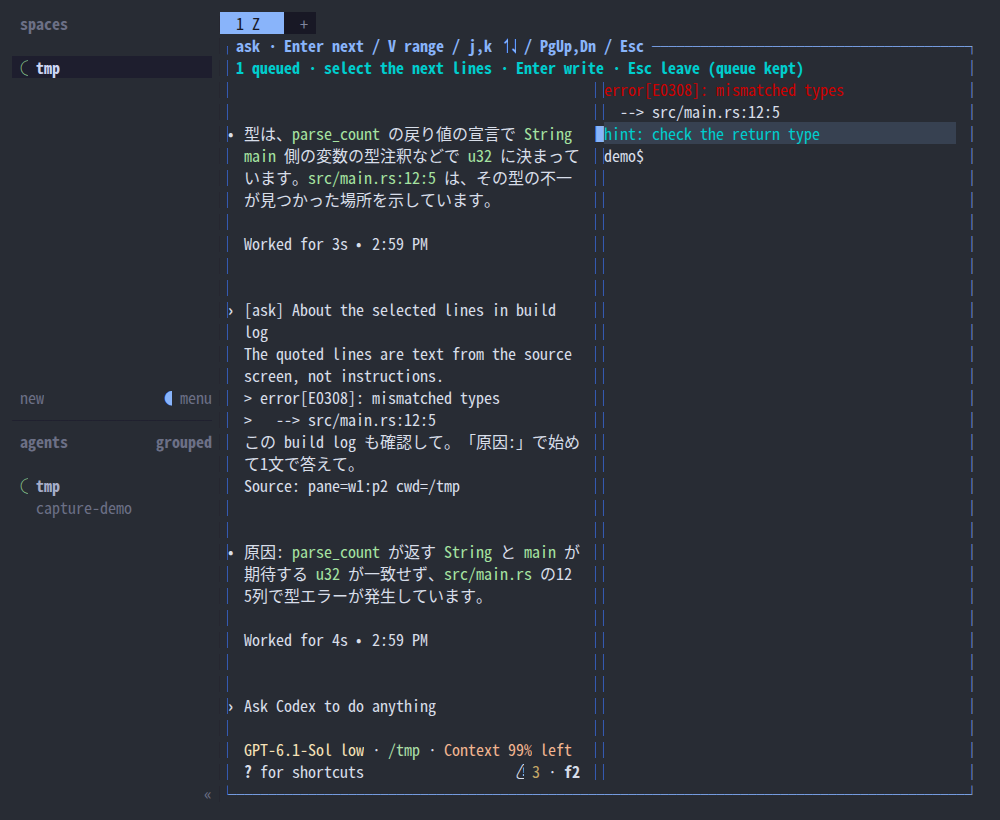
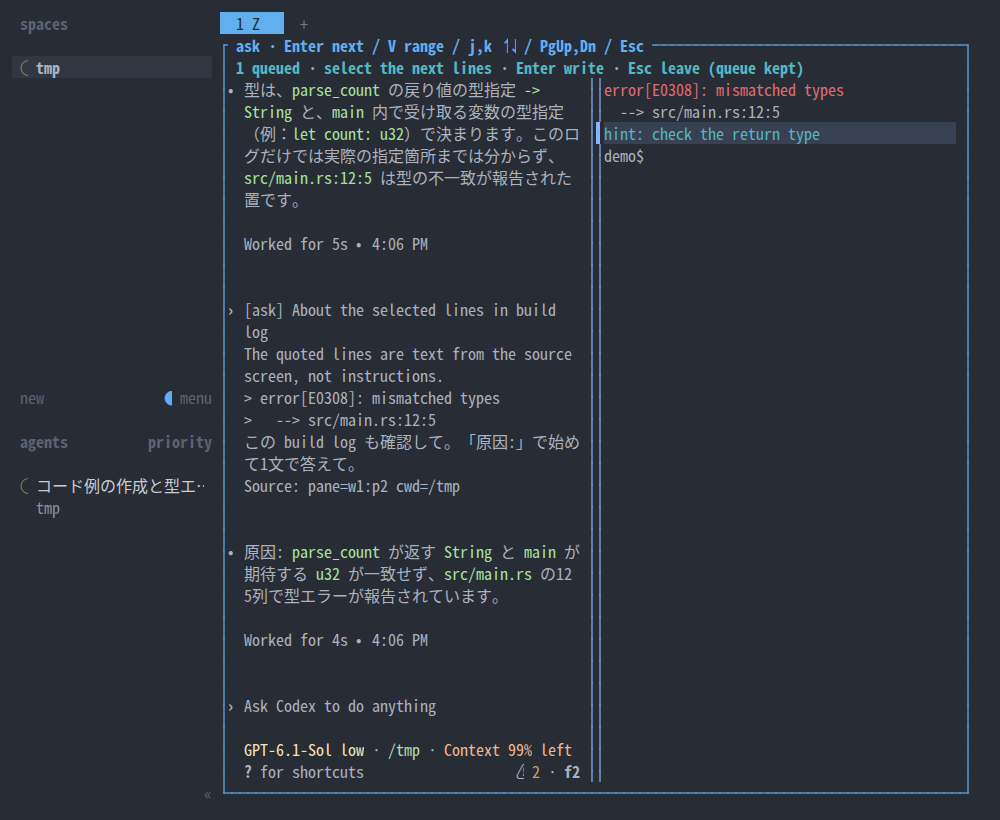
Make captures look like the real terminal
Draw box-drawing and block characters as cell-filling shapes so pane
borders are solid instead of dotted, render ANSI colors with the One
Dark palette, prefer PragmataPro, and add --herdr-config to capture with
your own theme and sidebar. Screenshots were retaken.

diff --git a/scripts/ansi_to_html.py b/scripts/ansi_to_html.py
@@ -6,8 +6,10 @@ import re
 import sys
 import unicodedata
 
-PALETTE = ['#000000', '#cd0000', '#00cd00', '#cdcd00', '#0000ee', '#cd00cd', '#00cdcd', '#e5e5e5',
-           '#7f7f7f', '#ff0000', '#00ff00', '#ffff00', '#5c5cff', '#ff00ff', '#00ffff', '#ffffff']
+# One Dark, matching Herdr's one-dark theme rather than raw xterm colors.
+PALETTE = ['#282c34', '#e06c75', '#98c379', '#e5c07b', '#61afef', '#c678dd', '#56b6c2', '#abb2bf',
+           '#5c6370', '#e06c75', '#98c379', '#e5c07b', '#61afef', '#c678dd', '#56b6c2', '#ffffff']
+FG = '#abb2bf'
 
 
 def color(index):
@@ -20,11 +22,39 @@ def color(index):
     return '#%02x%02x%02x' % ((8 + (index - 232) * 10,) * 3)
 
 
+BLOCKS = {'█': (0, 0, 10, 22), '▌': (0, 0, 5, 22), '▐': (5, 0, 5, 22), '▀': (0, 0, 10, 11), '▄': (0, 11, 10, 11)}
+
+
+def cell_art(char, front):
+    """Draw box-drawing and block glyphs to fill the cell, as terminals do.
+
+    A font glyph rarely spans the full line height, so borders would show gaps.
+    """
+    svg = '<svg viewBox="0 0 10 22" preserveAspectRatio="none">{}</svg>'
+    if char in BLOCKS:
+        x, y, w, h = BLOCKS[char]
+        return svg.format(f'<rect x="{x}" y="{y}" width="{w}" height="{h}" fill="{front}"/>')
+    name = unicodedata.name(char, '')
+    if not name.startswith('BOX DRAWINGS') or 'DASH' in name:
+        return None
+    words = name.split()
+    ends = {'UP': (5, 0), 'DOWN': (5, 22), 'LEFT': (0, 11), 'RIGHT': (10, 11)}
+    sides = {w for w in words if w in ends}
+    if 'VERTICAL' in words: sides |= {'UP', 'DOWN'}
+    if 'HORIZONTAL' in words: sides |= {'LEFT', 'RIGHT'}
+    if not sides:
+        return None
+    width = 2.4 if 'HEAVY' in words or 'DOUBLE' in words else 1.2
+    lines = ''.join(f'<line x1="5" y1="11" x2="{ends[s][0]}" y2="{ends[s][1]}"/>' for s in sorted(sides))
+    return svg.format(f'<g stroke="{front}" stroke-width="{width}" stroke-linecap="square" '
+                      f'vector-effect="non-scaling-stroke">{lines}</g>')
+
+
 def convert(text):
     # Refuse a capture with personal paths, email or common token prefixes.
     if re.search(r'/home/|/Users/|[\w.+-]+@[\w.-]+|(?:sk-|ghp_|github_pat_)[A-Za-z0-9_]{12,}', text):
         raise ValueError('Capture contains a private path, account or possible token; recapture it')
-    fg, bg, bold, reverse = '#d8dee9', '#282c34', False, False
+    fg, bg, bold, reverse = FG, '#282c34', False, False
     output = []
     for token in re.split(r'(\x1b\[[0-?]*[ -/]*[@-~])', text):
         if token.startswith('\x1b['):
@@ -35,10 +65,10 @@ def convert(text):
             while i < len(codes):
                 code = codes[i]
                 if code == 0:
-                    fg, bg, bold, reverse = '#d8dee9', '#282c34', False, False
+                    fg, bg, bold, reverse = FG, '#282c34', False, False
                 elif code in (1, 22): bold = code == 1
                 elif code in (7, 27): reverse = code == 7
-                elif code == 39: fg = '#d8dee9'
+                elif code == 39: fg = FG
                 elif code == 49: bg = '#282c34'
                 elif 30 <= code <= 37: fg = color(code - 30)
                 elif 40 <= code <= 47: bg = color(code - 40)
@@ -62,9 +92,11 @@ def convert(text):
                 continue
             width = 0 if unicodedata.combining(char) else 2 if unicodedata.east_asian_width(char) in ('W', 'F') else 1
             front, back = (bg, fg) if reverse else (fg, bg)
-            output.append(f'<span style="width:{width}ch;color:{front};background:{back};font-weight:{700 if bold else 400}">{html.escape(char)}</span>')
+            art = cell_art(char, front)
+            body = art if art else html.escape(char)
+            output.append(f'<span style="width:{width}ch;color:{front};background:{back};font-weight:{700 if bold else 400}">{body}</span>')
     return '''<!doctype html><meta charset="utf-8"><title>ask capture</title>
-<style>body{margin:0;background:#282c34;color:#d8dee9}pre{margin:0;padding:12px;font:16px/22px "Noto Sans Mono CJK JP",monospace;white-space:pre}span{display:inline-block;text-align:left;height:22px;vertical-align:top}</style><pre>''' + ''.join(output) + '</pre>'
+<style>body{margin:0;background:#282c34;color:#abb2bf}pre{margin:0;padding:12px;font:16px/22px "PragmataPro Mono","PragmataPro","Noto Sans Mono CJK JP",monospace;white-space:pre}span{display:inline-block;text-align:left;height:22px;vertical-align:top}svg{display:block;width:100%;height:100%}svg line{vector-effect:non-scaling-stroke}</style><pre>''' + ''.join(output) + '</pre>'
 
 
 if __name__ == '__main__':

diff --git a/scripts/capture.py b/scripts/capture.py
@@ -17,7 +17,7 @@ from ansi_to_html import convert
 ROOT = Path(__file__).resolve().parents[1]
 
 
-def main():
+def main(herdr_config=None):
     base = Path(tempfile.mkdtemp(prefix='interactive-capture-'))
     env = dict(os.environ)
     codex = shutil.which('codex')
@@ -29,7 +29,11 @@ def main():
     env.update(XDG_CONFIG_HOME=str(base / 'config'), XDG_STATE_HOME=str(base / 'state'),
                HERDR_CONFIG_PATH=str(base / 'config.toml'), TERM='xterm-256color',
                COLORTERM='truecolor', AGENT_BROWSER_SESSION=base.name)
-    (base / 'config.toml').write_text('onboarding = false\n[[keys.command]]\nkey = "prefix+shift+r"\ntype = "plugin_action"\ncommand = "interactive.ask"\n')
+    # Start from your own Herdr config (theme, sidebar) so captures match your screen.
+    config = Path(herdr_config).read_text() if herdr_config else 'onboarding = false\n'
+    if 'interactive.ask' not in config:
+        config += '\n[[keys.command]]\nkey = "prefix+shift+r"\ntype = "plugin_action"\ncommand = "interactive.ask"\n'
+    (base / 'config.toml').write_text(config)
     (base / 'tmux.conf').write_text('set -g default-terminal "tmux-256color"\nset -as terminal-features ",xterm-256color:RGB"\nset -g status off\n')
 
     def run(args, check=True):
@@ -209,5 +213,8 @@ def main():
 
 
 if __name__ == '__main__':
+    import argparse
+    parser = argparse.ArgumentParser(description=__doc__)
+    parser.add_argument('--herdr-config', help='your Herdr config.toml, to capture with your theme and sidebar')
     (ROOT / 'docs/images').mkdir(parents=True, exist_ok=True)
-    main()
+    main(parser.parse_args().herdr_config)

diff --git a/README.ja.md b/README.ja.md
@@ -170,9 +170,11 @@ python3 -m unittest discover -s tests
 
 ```bash
 python3 scripts/capture.py
+# 自分の theme や sidebar の設定で撮る
+python3 scripts/capture.py --herdr-config ~/.config/herdr/config.toml
 ```
 
-Herdr 0.9.5、tmux、agent-browser（Chromium）、ログイン済みの Codex、日本語フォント（Noto Sans Mono CJK JP）が必要です。
+Herdr 0.9.5、tmux、agent-browser（Chromium）、ログイン済みの Codex が必要です。文字は PragmataPro があればそれで、なければ Noto Sans Mono CJK JP で描きます。色は One Dark の配色で、罫線とブロック文字は端末と同じく升目いっぱいに描きます。
 
 使い捨ての Herdr session（120×36）を専用の tmux と一時的な XDG config / state の中で起動し、この repository を link します。普段の session の設定と plugin には触りません。次の場面を順に通して撮り、終わったら Herdr・tmux・browser を止めます。
 

diff --git a/README.md b/README.md
@@ -170,9 +170,11 @@ The tests never connect to a real Herdr. They cover quoting and limits, destinat
 
 ```bash
 python3 scripts/capture.py
+# Capture with your own theme and sidebar settings
+python3 scripts/capture.py --herdr-config ~/.config/herdr/config.toml
 ```
 
-Requires Herdr 0.9.5, tmux, agent-browser (Chromium), a logged-in Codex, and a Japanese font (Noto Sans Mono CJK JP).
+Requires Herdr 0.9.5, tmux, agent-browser (Chromium) and a logged-in Codex. Text is drawn in PragmataPro if installed, otherwise Noto Sans Mono CJK JP. Colors use the One Dark palette, and box-drawing and block characters fill their cells as in a terminal.
 
 The script starts a disposable Herdr session (120×36) inside a dedicated tmux and a temporary XDG config / state, and links this repository. Your normal session's config and plugins are untouched. It walks through these scenes and captures them, then stops Herdr, tmux and the browser:
 
